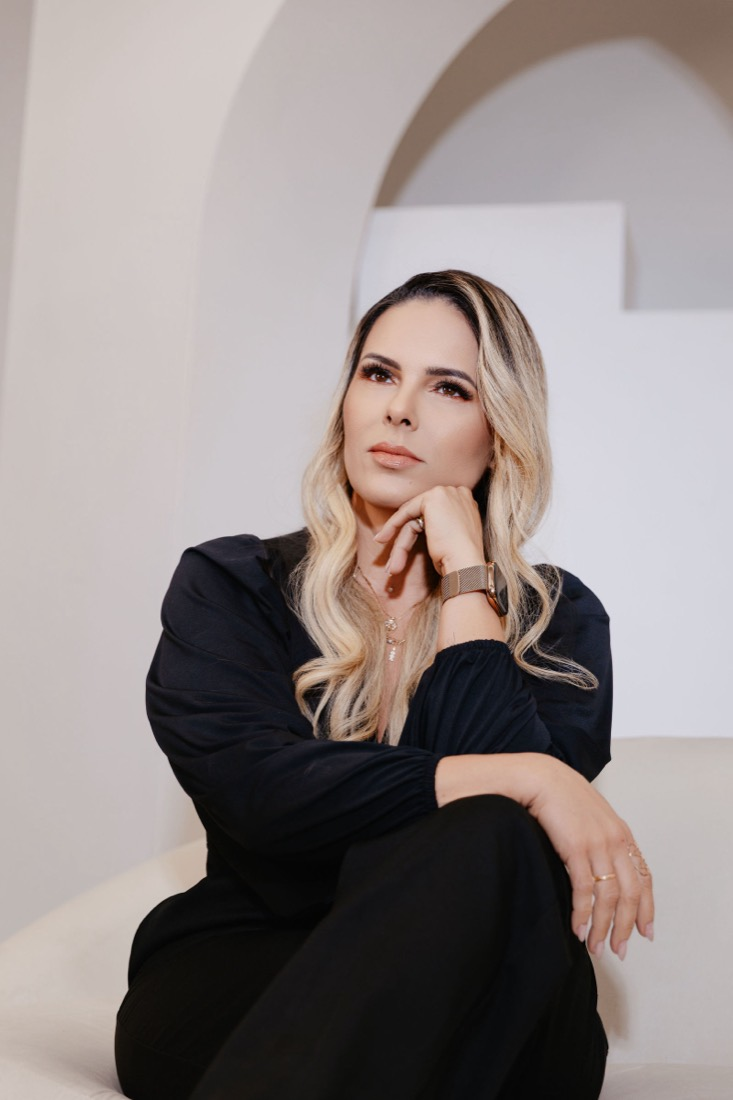
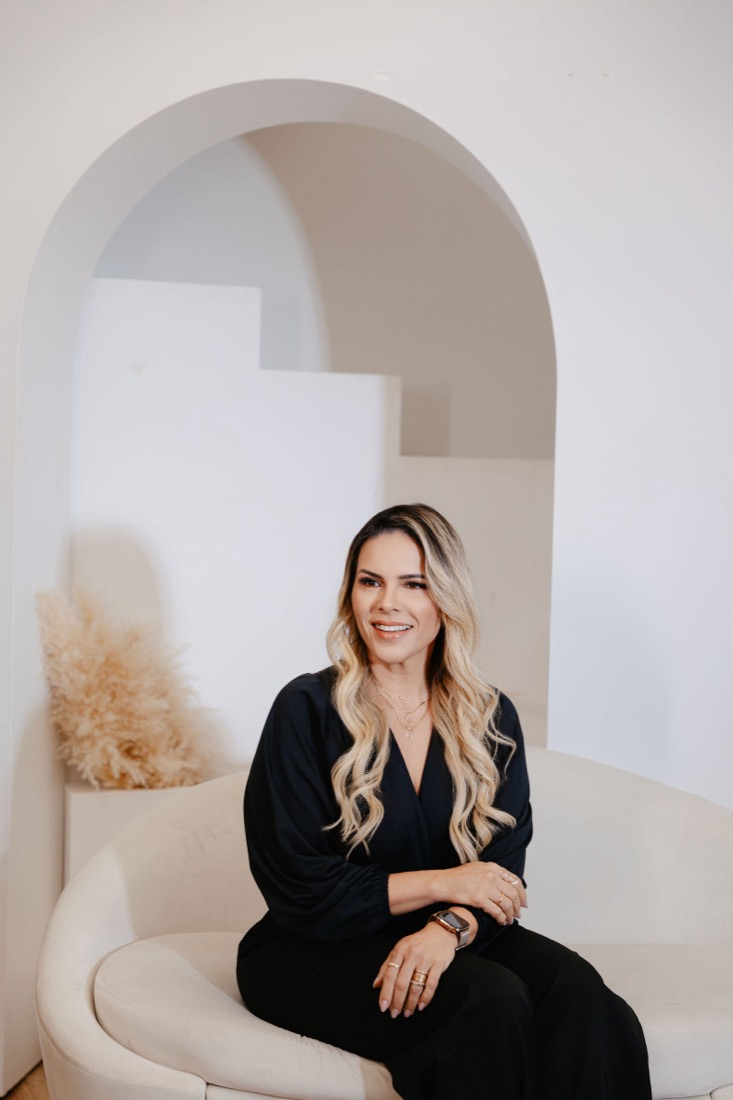
Tecnologias em hierarquia: EMShape em destaque com a maquina, as outras duas compactas
Pedido do Sostenes: 'a maquina na primeira, as outras com descricao mais breve' e 'o texto maior
no meio, os menores do lado'. Tres cards iguais liam como catalogo. Um grande e dois pequenos leem
como hierarquia — e hierarquia e o que faz um site parecer caro.

- EMShape Neo: card de largura inteira, foto do aparelho a esquerda, quatro campos e a citacao do
  estudo com a fonte.
- Ultracavitacao e Radiofrequencia: metade da largura cada, lado a lado, tres campos e o estudo
  em uma linha. Sem foto e sem marca, so a tecnologia.

Hero: a segunda foto virou a que ela esta SORRINDO e olhando para a camera. Antes eram duas serias
e o par ficava frio.

MEDICAO QUE QUASE VIROU FALSO ALARME: a primeira leitura acusou scroll horizontal. Antes de sair
corrigindo, conferi o viewport — estava em ZERO, o painel do navegador tinha entrado num estado
degenerado. Remedido com viewport real: 375px da 1 coluna e documento de 375px; 1280px da o
destaque com 1108px e os dois compactos com 544px lado a lado. Nenhum scroll horizontal, nenhuma
imagem quebrada. Alarme era do instrumento, nao do site.

diff --git a/index.html b/index.html
@@ -149,7 +149,11 @@ h2{font-size:clamp(1.85rem,3.8vw,2.7rem);margin-bottom:15px}
 .tab-preco{font-family:var(--serif);font-size:1.42rem;color:var(--dourado);text-align:right;white-space:nowrap}
 .nota-moeda{margin-top:13px;font-size:.8rem;color:var(--suave);font-style:italic}
 #equipamentos{padding:74px 0}
-.eq-grade{display:grid;grid-template-columns:repeat(auto-fit,minmax(300px,1fr));gap:20px;margin-top:34px}
+.eq-grade{display:grid;grid-template-columns:1fr 1fr;gap:20px;margin-top:34px}
+.eq-destaque{grid-column:1/-1;display:grid;grid-template-columns:.86fr 1.14fr;gap:30px;align-items:center;
+  background:linear-gradient(150deg,var(--creme-2) 0%,var(--papel) 62%)}
+.eq-destaque .eq-topo h3{font-size:1.72rem}
+.eq-compacto dd{font-size:.93rem}
 .eq{background:var(--papel);border:1px solid var(--linha);border-radius:16px;padding:26px}
 .eq-topo{display:flex;align-items:baseline;gap:12px;flex-wrap:wrap;margin-bottom:16px}
 .eq-topo h3{font-size:1.42rem}
@@ -165,7 +169,7 @@ h2{font-size:clamp(1.85rem,3.8vw,2.7rem);margin-bottom:15px}
 .eq-estudo p{margin:7px 0 0;font-size:.93rem;line-height:1.55}
 .eq-estudo cite{display:block;margin-top:9px;font-size:.78rem;font-style:normal;color:var(--suave)}
 .eq-aviso{margin-top:14px;font-size:.84rem;color:var(--suave);font-style:italic}
-.eq-foto{margin:0 0 18px;background:var(--creme);border-radius:12px;overflow:hidden;aspect-ratio:1/1;
+.eq-foto{margin:0;background:var(--creme);border-radius:12px;overflow:hidden;aspect-ratio:1/1;
   display:grid;place-items:center}
 .eq-foto img{width:100%;height:100%;object-fit:contain;padding:10px}
 .fio{margin-top:18px;font-family:var(--serif);font-size:1.32rem;line-height:1.35;color:var(--marrom)}
@@ -276,6 +280,8 @@ footer{padding:42px 0;text-align:center;color:var(--suave);font-size:.78rem;back
   html{font-size:16px}
   .hero{padding:104px 0 52px}
   .hero-grade,.benef-grade,.historia-grade{grid-template-columns:1fr;gap:34px}
+  .eq-grade{grid-template-columns:1fr}
+  .eq-destaque{grid-template-columns:1fr;gap:20px}
   .hero{padding:96px 0 44px}
   .hero-fotos{aspect-ratio:1/.82;max-width:100%;margin:0;order:-1}
   .hf-1{inset:0 46% 12% 0}
@@ -466,26 +472,26 @@ footer{padding:42px 0;text-align:center;color:var(--suave);font-size:.78rem;back
     <h2>O que cada aparelho faz <span class="script">e o que você sente.</span></h2>
     <p class="intro">A pergunta que mais chega aqui é “dói?”. Em vez de responder que não, prefiro te contar exatamente o que acontece — e lembrar que, em qualquer momento, é só você falar que eu ajusto.</p>
     <div class="eq-grade">
-      <article class="eq rev">
+      <article class="eq eq-destaque rev">
         <figure class="eq-foto"><img src="/img/emshape-neo.jpg" alt="EMShape Neo" loading="lazy" width="900" height="900" /></figure>
-        <div class="eq-topo"><h3>EMShape Neo</h3><span class="eq-tipo">Tecnologia HIFEM · contração muscular</span></div>
-        <dl>
-          <dt>O que é</dt><dd>Máquina de tonificação muscular que trabalha três áreas em uma sessão: abdômen, posterior e glúteos.</dd>
-          <dt>Como funciona</dt><dd>Um campo eletromagnético de alta intensidade provoca contrações musculares involuntárias — mais profundas do que as que você consegue sozinha, porque não dependem da sua vontade.</dd>
-          <dt>Para que é usada</dt><dd>Tonificação e definição de abdômen e glúteos. Muito procurada por quem já treina e quer marcar o que construiu.</dd>
-          <dt>O que você sente</dt><dd>A contração é forte e estranha na primeira vez, mas não é dor. Você fica deitada e a intensidade sobe aos poucos — se incomodar em algum momento, você fala e eu baixo na hora.</dd>
-        </dl>
-        <div class="eq-estudo">
-          <b>O que os estudos mostram</b>
-          <p>Num estudo com 22 pessoas acompanhado por ressonância magnética, quatro sessões de HIFEM no abdômen mostraram aumento médio de 15% na espessura do músculo reto abdominal e redução média de 18% na gordura da região.</p>
-          <cite>Kinney &amp; Lozanova, Lasers in Surgery and Medicine, 2019 — estudo feito com equipamento Emsculpt (BTL).</cite>
+        <div class="eq-corpo">
+          <div class="eq-topo"><h3>EMShape Neo</h3><span class="eq-tipo">Tecnologia HIFEM · contração muscular</span></div>
+          <dl>
+            <dt>O que é</dt><dd>Máquina de tonificação muscular que trabalha três áreas em uma sessão: abdômen, posterior e glúteos.</dd>
+            <dt>Como funciona</dt><dd>Um campo eletromagnético de alta intensidade provoca contrações musculares involuntárias — mais profundas do que as que você consegue sozinha, porque não dependem da sua vontade.</dd>
+            <dt>Para que é usada</dt><dd>Tonificação e definição de abdômen e glúteos. Muito procurada por quem já treina e quer marcar o que construiu.</dd>
+            <dt>O que você sente</dt><dd>A contração é forte e estranha na primeira vez, mas não é dor. Você fica deitada e a intensidade sobe aos poucos — se incomodar em algum momento, você fala e eu baixo na hora.</dd>
+          </dl>
+          <div class="eq-estudo">
+            <b>O que os estudos mostram</b>
+            <p>Num estudo com 22 pessoas acompanhado por ressonância magnética, quatro sessões de HIFEM no abdômen mostraram aumento médio de 15% na espessura do músculo reto abdominal e redução média de 18% na gordura da região.</p>
+            <cite>Kinney &amp; Lozanova, Lasers in Surgery and Medicine, 2019 — estudo feito com equipamento Emsculpt (BTL).</cite>
+          </div>
         </div>
       </article>
-      <article class="eq rev">
-
+      <article class="eq eq-compacto rev">
         <div class="eq-topo"><h3>Ultracavitação</h3><span class="eq-tipo">Tecnologia de ultrassom</span></div>
         <dl>
-          <dt>O que é</dt><dd>Aplicada por área, com o aparelho em contato com a pele e um gel condutor.</dd>
           <dt>Como funciona</dt><dd>Ondas ultrassônicas de baixa frequência aplicadas na região tratada.</dd>
           <dt>Para que é usada</dt><dd>Gordura localizada e medidas em pontos específicos — barriga, flancos, culote.</dd>
           <dt>O que você sente</dt><dd>Você vai ouvir um apito agudo durante a aplicação. É normal e não é defeito do aparelho: é a própria frequência do ultrassom chegando ao ouvido pelo osso. Na pele, a sensação é de um aparelho morno deslizando.</dd>
@@ -493,14 +499,11 @@ footer{padding:42px 0;text-align:center;color:var(--suave);font-size:.78rem;back
         <div class="eq-estudo">
           <b>O que os estudos mostram</b>
           <p>Revisões da literatura descrevem a ultracavitação como procedimento seguro para redução de medidas localizadas, com reduções relatadas na circunferência abdominal na faixa de 2 a 4,6 cm ao longo de uma série de sessões.</p>
-          <cite>Revisões sistemáticas de contorno corporal não invasivo. Os números variam bastante entre estudos e entre pessoas.</cite>
         </div>
       </article>
-      <article class="eq rev">
-
+      <article class="eq eq-compacto rev">
         <div class="eq-topo"><h3>Radiofrequência</h3><span class="eq-tipo">Tecnologia de aquecimento controlado</span></div>
         <dl>
-          <dt>O que é</dt><dd>Aplicada por área, com o aparelho deslizando sobre a pele.</dd>
           <dt>Como funciona</dt><dd>Ondas de radiofrequência aquecem as camadas mais profundas da pele de forma controlada, sem cortar nem furar nada.</dd>
           <dt>Para que é usada</dt><dd>Firmeza e textura da pele. É a tecnologia mais usada em combinação com as outras, e não sozinha.</dd>
           <dt>O que você sente</dt><dd>Um calor morno que vai subindo, parecido com uma pedra quente que anda. Eu acompanho a temperatura o tempo todo — se esquentar demais para você, é só falar.</dd>
@@ -508,7 +511,6 @@ footer{padding:42px 0;text-align:center;color:var(--suave);font-size:.78rem;back
         <div class="eq-estudo">
           <b>O que os estudos mostram</b>
           <p>A literatura de contorno corporal estuda a radiofrequência principalmente em combinação com outras tecnologias, e não isolada — é assim que ela costuma ser usada na prática.</p>
-          <cite>Estudos de combinação de radiofrequência com estimulação muscular e ultrassom.</cite>
         </div>
       </article>
     </div>

diff --git a/es.html b/es.html
@@ -149,7 +149,11 @@ h2{font-size:clamp(1.85rem,3.8vw,2.7rem);margin-bottom:15px}
 .tab-preco{font-family:var(--serif);font-size:1.42rem;color:var(--dourado);text-align:right;white-space:nowrap}
 .nota-moeda{margin-top:13px;font-size:.8rem;color:var(--suave);font-style:italic}
 #equipamentos{padding:74px 0}
-.eq-grade{display:grid;grid-template-columns:repeat(auto-fit,minmax(300px,1fr));gap:20px;margin-top:34px}
+.eq-grade{display:grid;grid-template-columns:1fr 1fr;gap:20px;margin-top:34px}
+.eq-destaque{grid-column:1/-1;display:grid;grid-template-columns:.86fr 1.14fr;gap:30px;align-items:center;
+  background:linear-gradient(150deg,var(--creme-2) 0%,var(--papel) 62%)}
+.eq-destaque .eq-topo h3{font-size:1.72rem}
+.eq-compacto dd{font-size:.93rem}
 .eq{background:var(--papel);border:1px solid var(--linha);border-radius:16px;padding:26px}
 .eq-topo{display:flex;align-items:baseline;gap:12px;flex-wrap:wrap;margin-bottom:16px}
 .eq-topo h3{font-size:1.42rem}
@@ -165,7 +169,7 @@ h2{font-size:clamp(1.85rem,3.8vw,2.7rem);margin-bottom:15px}
 .eq-estudo p{margin:7px 0 0;font-size:.93rem;line-height:1.55}
 .eq-estudo cite{display:block;margin-top:9px;font-size:.78rem;font-style:normal;color:var(--suave)}
 .eq-aviso{margin-top:14px;font-size:.84rem;color:var(--suave);font-style:italic}
-.eq-foto{margin:0 0 18px;background:var(--creme);border-radius:12px;overflow:hidden;aspect-ratio:1/1;
+.eq-foto{margin:0;background:var(--creme);border-radius:12px;overflow:hidden;aspect-ratio:1/1;
   display:grid;place-items:center}
 .eq-foto img{width:100%;height:100%;object-fit:contain;padding:10px}
 .fio{margin-top:18px;font-family:var(--serif);font-size:1.32rem;line-height:1.35;color:var(--marrom)}
@@ -276,6 +280,8 @@ footer{padding:42px 0;text-align:center;color:var(--suave);font-size:.78rem;back
   html{font-size:16px}
   .hero{padding:104px 0 52px}
   .hero-grade,.benef-grade,.historia-grade{grid-template-columns:1fr;gap:34px}
+  .eq-grade{grid-template-columns:1fr}
+  .eq-destaque{grid-template-columns:1fr;gap:20px}
   .hero{padding:96px 0 44px}
   .hero-fotos{aspect-ratio:1/.82;max-width:100%;margin:0;order:-1}
   .hf-1{inset:0 46% 12% 0}
@@ -466,26 +472,26 @@ footer{padding:42px 0;text-align:center;color:var(--suave);font-size:.78rem;back
     <h2>Qué hace cada aparato <span class="script">y qué se siente.</span></h2>
     <p class="intro">La pregunta que más me hacen es “¿duele?”. En vez de responder que no, prefiero contarte exactamente qué pasa — y recordarte que en cualquier momento me dices y lo ajusto.</p>
     <div class="eq-grade">
-      <article class="eq rev">
+      <article class="eq eq-destaque rev">
         <figure class="eq-foto"><img src="/img/emshape-neo.jpg" alt="EMShape Neo" loading="lazy" width="900" height="900" /></figure>
-        <div class="eq-topo"><h3>EMShape Neo</h3><span class="eq-tipo">Tecnología HIFEM · contracción muscular</span></div>
-        <dl>
-          <dt>Qué es</dt><dd>Máquina de tonificación muscular que trabaja tres áreas en una sesión: abdomen, posterior y glúteos.</dd>
-          <dt>Cómo funciona</dt><dd>Un campo electromagnético de alta intensidad provoca contracciones musculares involuntarias — más profundas que las que logras por tu cuenta, porque no dependen de tu voluntad.</dd>
-          <dt>Para qué se usa</dt><dd>Tonificación y definición de abdomen y glúteos. Muy buscada por quien ya entrena y quiere marcar lo que construyó.</dd>
-          <dt>Qué se siente</dt><dd>La contracción se siente fuerte y extraña la primera vez, pero no es dolor. Te acuestas y la intensidad sube poco a poco — si te incomoda, me dices y la bajo al instante.</dd>
-        </dl>
-        <div class="eq-estudo">
-          <b>Qué muestran los estudios</b>
-          <p>En un estudio con 22 personas seguido por resonancia magnética, cuatro sesiones de HIFEM en el abdomen mostraron un aumento medio del 15% en el grosor del recto abdominal y una reducción media del 18% en la grasa de la zona.</p>
-          <cite>Kinney &amp; Lozanova, Lasers in Surgery and Medicine, 2019 — estudio realizado con equipo Emsculpt (BTL).</cite>
+        <div class="eq-corpo">
+          <div class="eq-topo"><h3>EMShape Neo</h3><span class="eq-tipo">Tecnología HIFEM · contracción muscular</span></div>
+          <dl>
+            <dt>Qué es</dt><dd>Máquina de tonificación muscular que trabaja tres áreas en una sesión: abdomen, posterior y glúteos.</dd>
+            <dt>Cómo funciona</dt><dd>Un campo electromagnético de alta intensidad provoca contracciones musculares involuntarias — más profundas que las que logras por tu cuenta, porque no dependen de tu voluntad.</dd>
+            <dt>Para qué se usa</dt><dd>Tonificación y definición de abdomen y glúteos. Muy buscada por quien ya entrena y quiere marcar lo que construyó.</dd>
+            <dt>Qué se siente</dt><dd>La contracción se siente fuerte y extraña la primera vez, pero no es dolor. Te acuestas y la intensidad sube poco a poco — si te incomoda, me dices y la bajo al instante.</dd>
+          </dl>
+          <div class="eq-estudo">
+            <b>Qué muestran los estudios</b>
+            <p>En un estudio con 22 personas seguido por resonancia magnética, cuatro sesiones de HIFEM en el abdomen mostraron un aumento medio del 15% en el grosor del recto abdominal y una reducción media del 18% en la grasa de la zona.</p>
+            <cite>Kinney &amp; Lozanova, Lasers in Surgery and Medicine, 2019 — estudio realizado con equipo Emsculpt (BTL).</cite>
+          </div>
         </div>
       </article>
-      <article class="eq rev">
-
+      <article class="eq eq-compacto rev">
         <div class="eq-topo"><h3>Ultracavitación</h3><span class="eq-tipo">Tecnología de ultrasonido</span></div>
         <dl>
-          <dt>Qué es</dt><dd>Aplicada por área, con el aparato en contacto con la piel y un gel conductor.</dd>
           <dt>Cómo funciona</dt><dd>Ondas ultrasónicas de baja frecuencia aplicadas en la zona tratada.</dd>
           <dt>Para qué se usa</dt><dd>Grasa localizada y medidas en puntos específicos — abdomen, flancos, cartucheras.</dd>
           <dt>Qué se siente</dt><dd>Vas a escuchar un pitido agudo durante la aplicación. Es normal y no es una falla: es la propia frecuencia del ultrasonido llegando al oído por el hueso. En la piel se siente como un aparato tibio deslizando.</dd>
@@ -493,14 +499,11 @@ footer{padding:42px 0;text-align:center;color:var(--suave);font-size:.78rem;back
         <div class="eq-estudo">
           <b>Qué muestran los estudios</b>
           <p>Las revisiones de la literatura describen la ultracavitación como un procedimiento seguro para reducir medidas localizadas, con reducciones reportadas en la circunferencia abdominal de 2 a 4,6 cm a lo largo de una serie de sesiones.</p>
-          <cite>Revisiones sistemáticas de contorno corporal no invasivo. Las cifras varían mucho entre estudios y entre personas.</cite>
         </div>
       </article>
-      <article class="eq rev">
-
+      <article class="eq eq-compacto rev">
         <div class="eq-topo"><h3>Radiofrecuencia</h3><span class="eq-tipo">Tecnología de calentamiento controlado</span></div>
         <dl>
-          <dt>Qué es</dt><dd>Aplicada por área, con el aparato deslizando sobre la piel.</dd>
           <dt>Cómo funciona</dt><dd>Ondas de radiofrecuencia calientan las capas más profundas de la piel de forma controlada, sin cortar ni pinchar.</dd>
           <dt>Para qué se usa</dt><dd>Firmeza y textura de la piel. Es la tecnología más usada en combinación con las otras, y no sola.</dd>
           <dt>Qué se siente</dt><dd>Un calor tibio que va subiendo, parecido a una piedra caliente que se mueve. Controlo la temperatura todo el tiempo — si te resulta demasiado, solo dilo.</dd>
@@ -508,7 +511,6 @@ footer{padding:42px 0;text-align:center;color:var(--suave);font-size:.78rem;back
         <div class="eq-estudo">
           <b>Qué muestran los estudios</b>
           <p>La literatura de contorno corporal estudia la radiofrecuencia sobre todo en combinación con otras tecnologías, y no aislada — que es como se usa en la práctica.</p>
-          <cite>Estudios que combinan radiofrecuencia con estimulación muscular y ultrasonido.</cite>
         </div>
       </article>
     </div>

diff --git a/en.html b/en.html
@@ -149,7 +149,11 @@ h2{font-size:clamp(1.85rem,3.8vw,2.7rem);margin-bottom:15px}
 .tab-preco{font-family:var(--serif);font-size:1.42rem;color:var(--dourado);text-align:right;white-space:nowrap}
 .nota-moeda{margin-top:13px;font-size:.8rem;color:var(--suave);font-style:italic}
 #equipamentos{padding:74px 0}
-.eq-grade{display:grid;grid-template-columns:repeat(auto-fit,minmax(300px,1fr));gap:20px;margin-top:34px}
+.eq-grade{display:grid;grid-template-columns:1fr 1fr;gap:20px;margin-top:34px}
+.eq-destaque{grid-column:1/-1;display:grid;grid-template-columns:.86fr 1.14fr;gap:30px;align-items:center;
+  background:linear-gradient(150deg,var(--creme-2) 0%,var(--papel) 62%)}
+.eq-destaque .eq-topo h3{font-size:1.72rem}
+.eq-compacto dd{font-size:.93rem}
 .eq{background:var(--papel);border:1px solid var(--linha);border-radius:16px;padding:26px}
 .eq-topo{display:flex;align-items:baseline;gap:12px;flex-wrap:wrap;margin-bottom:16px}
 .eq-topo h3{font-size:1.42rem}
@@ -165,7 +169,7 @@ h2{font-size:clamp(1.85rem,3.8vw,2.7rem);margin-bottom:15px}
 .eq-estudo p{margin:7px 0 0;font-size:.93rem;line-height:1.55}
 .eq-estudo cite{display:block;margin-top:9px;font-size:.78rem;font-style:normal;color:var(--suave)}
 .eq-aviso{margin-top:14px;font-size:.84rem;color:var(--suave);font-style:italic}
-.eq-foto{margin:0 0 18px;background:var(--creme);border-radius:12px;overflow:hidden;aspect-ratio:1/1;
+.eq-foto{margin:0;background:var(--creme);border-radius:12px;overflow:hidden;aspect-ratio:1/1;
   display:grid;place-items:center}
 .eq-foto img{width:100%;height:100%;object-fit:contain;padding:10px}
 .fio{margin-top:18px;font-family:var(--serif);font-size:1.32rem;line-height:1.35;color:var(--marrom)}
@@ -276,6 +280,8 @@ footer{padding:42px 0;text-align:center;color:var(--suave);font-size:.78rem;back
   html{font-size:16px}
   .hero{padding:104px 0 52px}
   .hero-grade,.benef-grade,.historia-grade{grid-template-columns:1fr;gap:34px}
+  .eq-grade{grid-template-columns:1fr}
+  .eq-destaque{grid-template-columns:1fr;gap:20px}
   .hero{padding:96px 0 44px}
   .hero-fotos{aspect-ratio:1/.82;max-width:100%;margin:0;order:-1}
   .hf-1{inset:0 46% 12% 0}
@@ -466,26 +472,26 @@ footer{padding:42px 0;text-align:center;color:var(--suave);font-size:.78rem;back
     <h2>What each device does <span class="script">and what you feel.</span></h2>
     <p class="intro">The question I get the most is “does it hurt?”. Instead of just saying no, I'd rather tell you exactly what happens — and remind you that at any moment you can say so and I'll adjust.</p>
     <div class="eq-grade">
-      <article class="eq rev">
+      <article class="eq eq-destaque rev">
         <figure class="eq-foto"><img src="/img/emshape-neo.jpg" alt="EMShape Neo" loading="lazy" width="900" height="900" /></figure>
-        <div class="eq-topo"><h3>EMShape Neo</h3><span class="eq-tipo">HIFEM technology · muscle contraction</span></div>
-        <dl>
-          <dt>What it is</dt><dd>A muscle toning machine that works three areas in one session: abdomen, back and glutes.</dd>
-          <dt>How it works</dt><dd>A high-intensity electromagnetic field triggers involuntary muscle contractions — deeper than the ones you can produce on your own, because they don't depend on your effort.</dd>
-          <dt>What it's used for</dt><dd>Toning and definition of abdomen and glutes. Popular with people who already train and want to show what they've built.</dd>
-          <dt>What you feel</dt><dd>The contraction feels strong and strange the first time, but it isn't pain. You lie down and the intensity rises gradually — if it bothers you, say so and I turn it down right away.</dd>
-        </dl>
-        <div class="eq-estudo">
-          <b>What studies show</b>
-          <p>In a 22-patient study followed by MRI, four HIFEM abdominal sessions showed an average 15% increase in rectus abdominis thickness and an average 18% reduction in fat in the area.</p>
-          <cite>Kinney &amp; Lozanova, Lasers in Surgery and Medicine, 2019 — study conducted with Emsculpt (BTL) equipment.</cite>
+        <div class="eq-corpo">
+          <div class="eq-topo"><h3>EMShape Neo</h3><span class="eq-tipo">HIFEM technology · muscle contraction</span></div>
+          <dl>
+            <dt>What it is</dt><dd>A muscle toning machine that works three areas in one session: abdomen, back and glutes.</dd>
+            <dt>How it works</dt><dd>A high-intensity electromagnetic field triggers involuntary muscle contractions — deeper than the ones you can produce on your own, because they don't depend on your effort.</dd>
+            <dt>What it's used for</dt><dd>Toning and definition of abdomen and glutes. Popular with people who already train and want to show what they've built.</dd>
+            <dt>What you feel</dt><dd>The contraction feels strong and strange the first time, but it isn't pain. You lie down and the intensity rises gradually — if it bothers you, say so and I turn it down right away.</dd>
+          </dl>
+          <div class="eq-estudo">
+            <b>What studies show</b>
+            <p>In a 22-patient study followed by MRI, four HIFEM abdominal sessions showed an average 15% increase in rectus abdominis thickness and an average 18% reduction in fat in the area.</p>
+            <cite>Kinney &amp; Lozanova, Lasers in Surgery and Medicine, 2019 — study conducted with Emsculpt (BTL) equipment.</cite>
+          </div>
         </div>
       </article>
-      <article class="eq rev">
-
+      <article class="eq eq-compacto rev">
         <div class="eq-topo"><h3>Ultrasound cavitation</h3><span class="eq-tipo">Ultrasound technology</span></div>
         <dl>
-          <dt>What it is</dt><dd>Applied by area, with the device in contact with the skin and a conductive gel.</dd>
           <dt>How it works</dt><dd>Low-frequency ultrasound waves applied to the treated area.</dd>
           <dt>What it's used for</dt><dd>Localized fat and measurements in specific spots — belly, flanks, outer thighs.</dd>
           <dt>What you feel</dt><dd>You'll hear a high-pitched tone during the session. That's normal and not a fault: it's the ultrasound frequency reaching your ear through bone. On the skin it feels like a warm device gliding.</dd>
@@ -493,14 +499,11 @@ footer{padding:42px 0;text-align:center;color:var(--suave);font-size:.78rem;back
         <div class="eq-estudo">
           <b>What studies show</b>
           <p>Literature reviews describe ultrasound cavitation as a safe procedure for reducing localized measurements, with reported abdominal circumference reductions in the 2 to 4.6 cm range over a series of sessions.</p>
-          <cite>Systematic reviews of non-invasive body contouring. Figures vary widely between studies and between people.</cite>
         </div>
       </article>
-      <article class="eq rev">
-
+      <article class="eq eq-compacto rev">
         <div class="eq-topo"><h3>Radiofrequency</h3><span class="eq-tipo">Controlled heating technology</span></div>
         <dl>
-          <dt>What it is</dt><dd>Applied by area, with the device gliding over the skin.</dd>
           <dt>How it works</dt><dd>Radiofrequency waves heat the deeper layers of the skin in a controlled way, with no cutting and no needles.</dd>
           <dt>What it's used for</dt><dd>Skin firmness and texture. It's the technology most often used in combination with the others, rather than alone.</dd>
           <dt>What you feel</dt><dd>A gentle warmth that builds up, like a warm stone moving over you. I track the temperature the whole time — if it gets too warm, just say so.</dd>
@@ -508,7 +511,6 @@ footer{padding:42px 0;text-align:center;color:var(--suave);font-size:.78rem;back
         <div class="eq-estudo">
           <b>What studies show</b>
           <p>Body-contouring literature studies radiofrequency mainly in combination with other technologies rather than in isolation — which is how it is normally used in practice.</p>
-          <cite>Studies combining radiofrequency with muscle stimulation and ultrasound.</cite>
         </div>
       </article>
     </div>

diff --git a/dados.js b/dados.js
@@ -376,6 +376,7 @@ export const FOTOS = [
 export const TECNOLOGIAS = [
   {
     id: "hifem",
+    destaque: true,
     // Imagem oficial do fabricante (emshape.shop). Único aparelho nomeado no site — as outras
     // duas tecnologias entram sem marca, sem modelo e sem foto, por decisão de Sostenes.
     foto: "/img/emshape-neo.jpg",
